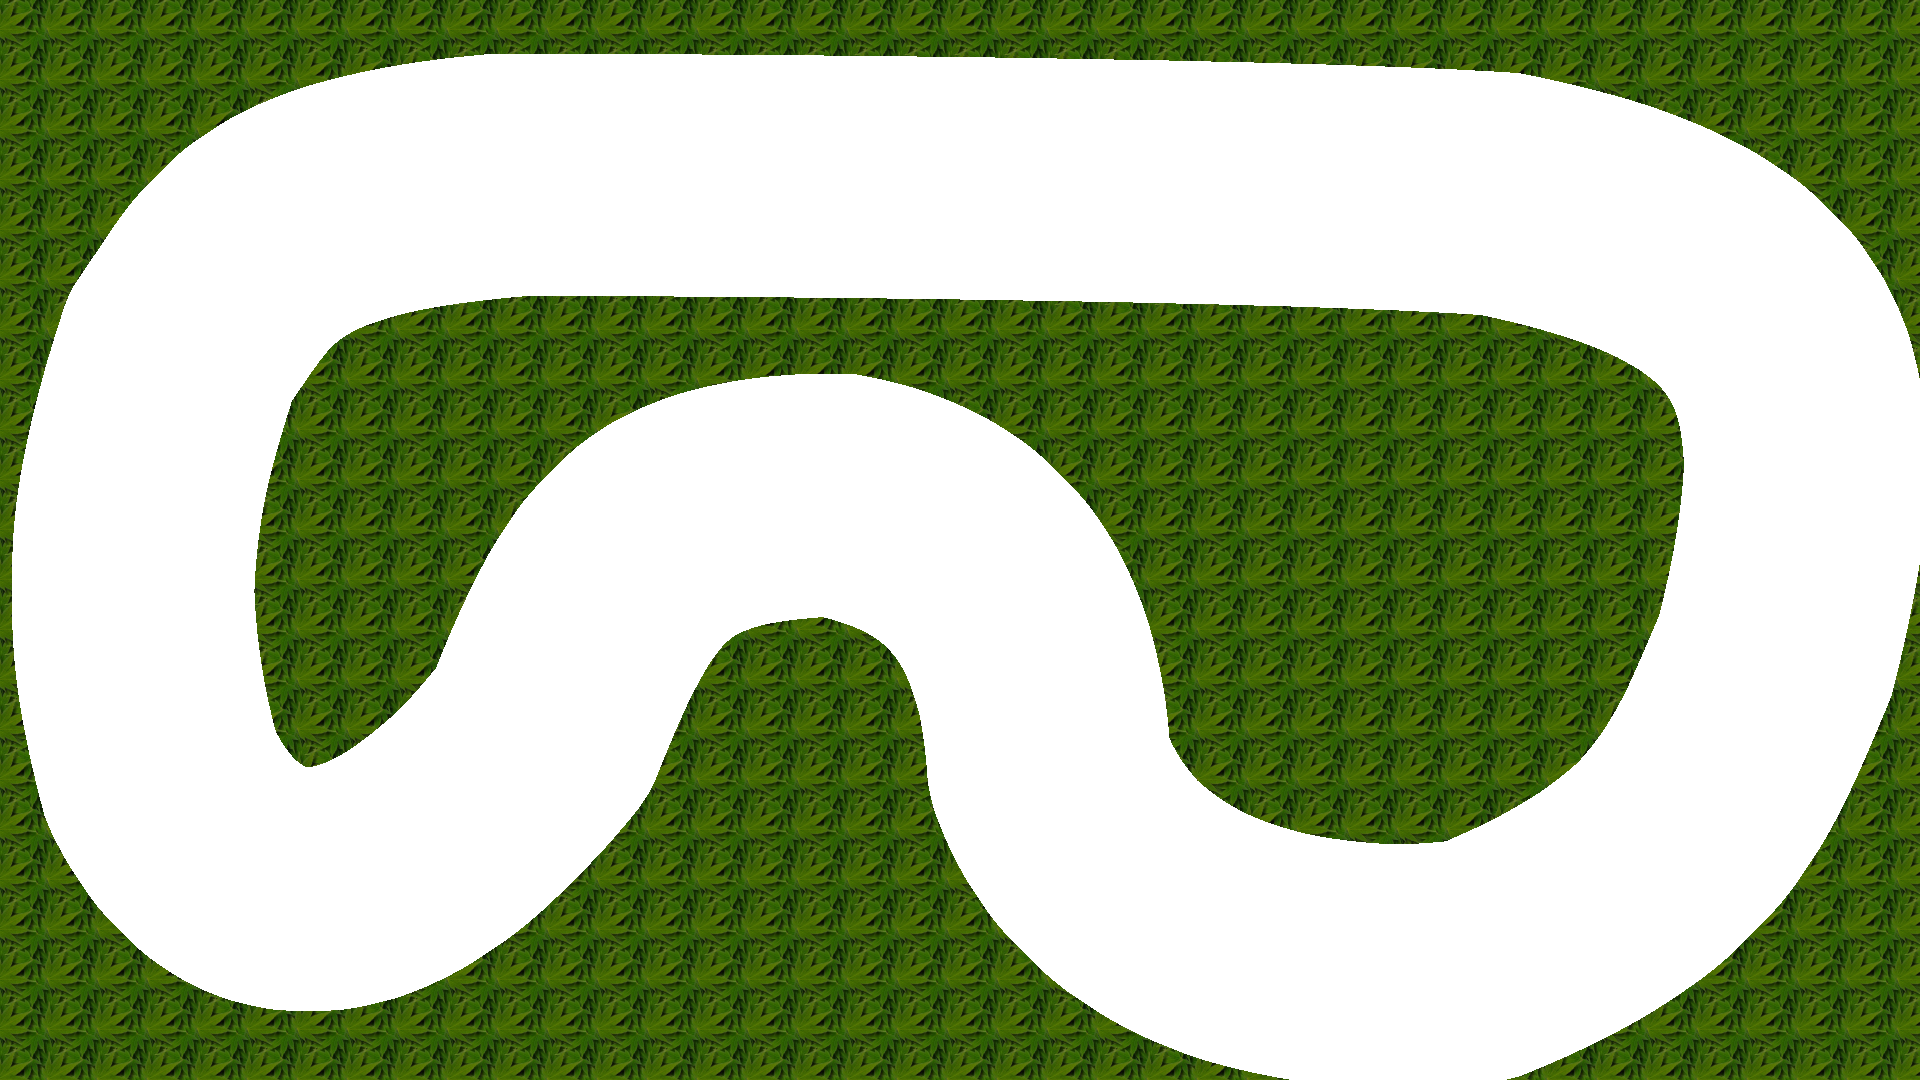
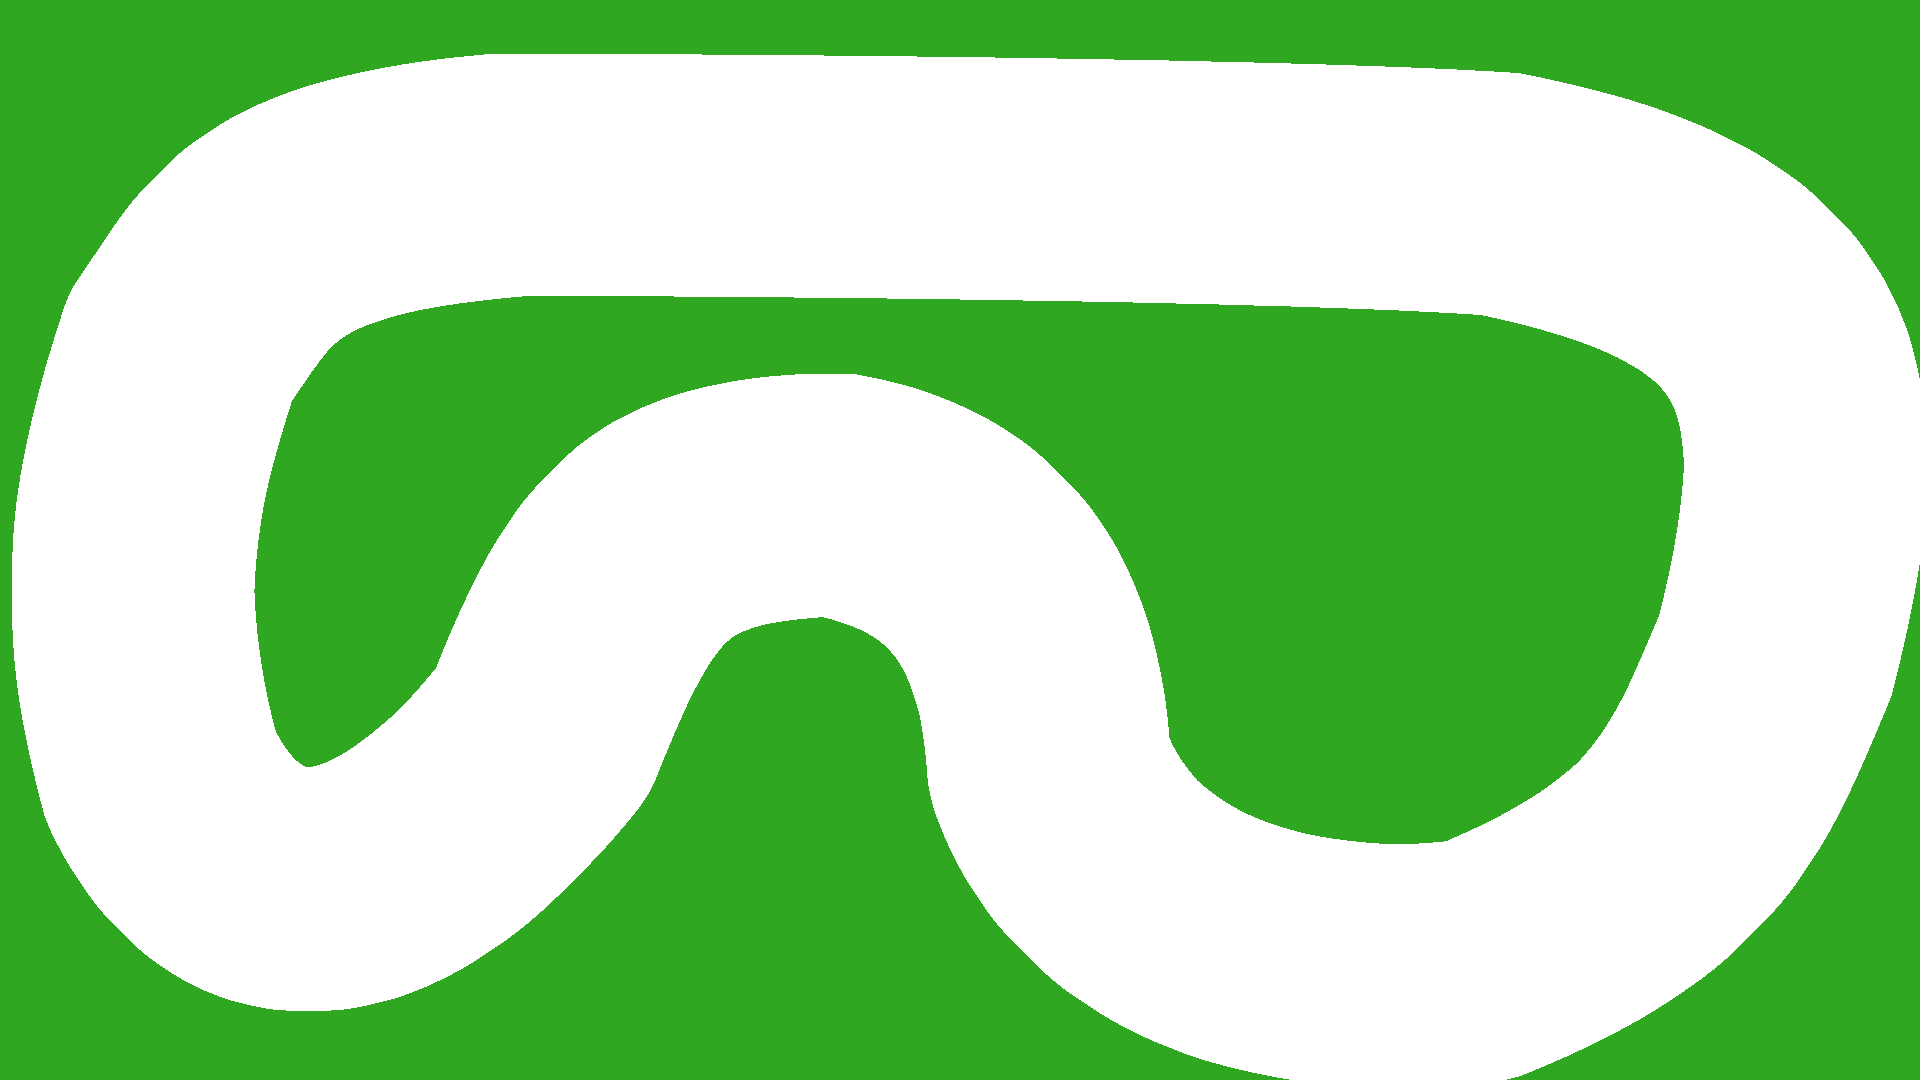
Draw collision line and calculate distance

diff --git a/src/main.cpp b/src/main.cpp
@@ -20,10 +20,13 @@ std::optional<sf::Texture> read_texture(const std::string& path)
     }
 }
 
+static const auto pi = std::acos(-1);
+static const auto to_rad_multiplier = pi / 180.0f;
+
 int main()
 {
     std::cout << "Learning First start\n";
-    sf::RenderWindow window(sf::VideoMode(1920, 1080), "Learning First");
+    sf::RenderWindow window(sf::VideoMode(920, 1080), "Learning First");
 
     const auto car_texture = read_texture("images/car.png");
     const auto car_collision_texture = read_texture("images/car-wheels.png");
@@ -38,6 +41,20 @@ int main()
     bool braking{false};
     bool rotating_left{false};
     bool rotating_right{false};
+
+    sf::Image image;
+    if (image.loadFromFile("images/custom_track-grass.png") == false) {
+        std::cout << "Reading image failed\n";
+        return -1;
+    }
+
+    // auto pixels_pointer = image.getPixelsPtr();
+    // for (unsigned width = 0; width < image.getSize().x; ++width) {
+    //     for (unsigned height = 0; height < image.getSize().y; ++height) {
+    //         std::cout << image.getPixel(width, height).toInteger() << " ";
+    //     }
+    //     std::cout << "\n";
+    // }
 
     while (window.isOpen()) {
         sf::Event event;
@@ -127,8 +144,38 @@ int main()
 
         car.update(0.02);
 
+        auto driver_position(car.get_position());
+        auto checking_point(driver_position);
+        std::cout << "Driver position: " << driver_position.x << ", " << driver_position.y
+                  << "\n";
+
+        const auto car_rotation = car.get_rotation();
+
+        while (checking_point.x > 0U && checking_point.x < image.getSize().x
+               && checking_point.y > 0U && checking_point.y < image.getSize().y
+               && image.getPixel(checking_point.x, checking_point.y)
+                      == sf::Color::Transparent) {
+
+            checking_point.x += std::sin(car_rotation * to_rad_multiplier);
+            checking_point.y -= std::cos(car_rotation * to_rad_multiplier);
+        }
+
+        const sf::Vertex line[] = {sf::Vertex(driver_position),
+                                   sf::Vertex(checking_point)};
+
+        std::cout << "Checking point: " << checking_point.x << ", " << checking_point.y
+                  << "\n";
+
+        const auto line_length =
+            std::sqrt((driver_position.x - checking_point.x)
+                          * (driver_position.x - checking_point.x)
+                      + (driver_position.y - checking_point.y)
+                            * (driver_position.y - checking_point.y));
+        std::cout << "Length: " << line_length << " px\n";
+
         track.draw_at(window);
         car.draw_at(window);
+        window.draw(line, 2, sf::Lines);
         window.display();
         std::this_thread::sleep_for(std::chrono::milliseconds(20));
     }

diff --git a/src/models/src/Drawable.cpp b/src/models/src/Drawable.cpp
@@ -49,6 +49,11 @@ sf::Vector2f Drawable::get_middle() const
     return {local_bound.width / 2.0f, local_bound.height / 2.0f};
 }
 
+sf::Vector2f Drawable::get_position() const
+{
+    return sprite_view.getPosition();
+}
+
 void Drawable::move(const sf::Vector2f& translation_vector)
 {
     sprite_view.move(translation_vector);
@@ -59,4 +64,9 @@ void Drawable::rotate(float rotation)
 {
     sprite_view.rotate(rotation);
     sprite_collision.rotate(rotation);
+}
+
+float Drawable::get_rotation() const
+{
+    return sprite_view.getRotation();
 }

diff --git a/src/models/include/models/Drawable.hpp b/src/models/include/models/Drawable.hpp
@@ -26,6 +26,8 @@ protected:
     void set_position(float x, float y);
     void set_rotation(float angle);
     sf::Vector2f get_middle() const;
+    sf::Vector2f get_position() const;
+    float get_rotation() const;
     void move(const sf::Vector2f& translation_vector);
     void rotate(float rotation);
 

diff --git a/src/models/src/Vehicle.cpp b/src/models/src/Vehicle.cpp
@@ -60,3 +60,13 @@ float Vehicle::get_velocity() const
 {
     return velocity;
 }
+
+sf::Vector2f Vehicle::get_position() const
+{
+    return Drawable::get_position();
+}
+
+float Vehicle::get_rotation() const
+{
+    return Drawable::get_rotation();
+}

diff --git a/src/models/include/models/Vehicle.hpp b/src/models/include/models/Vehicle.hpp
@@ -18,6 +18,8 @@ public:
     void update(float time_step_ms);
 
     float get_velocity() const;
+    sf::Vector2f get_position() const;
+    float get_rotation() const;
 
     const float max_velocity{7.0f};
     const float min_velocity{0.0f};
